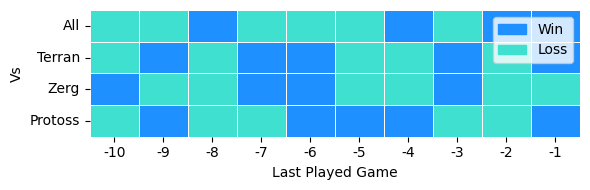
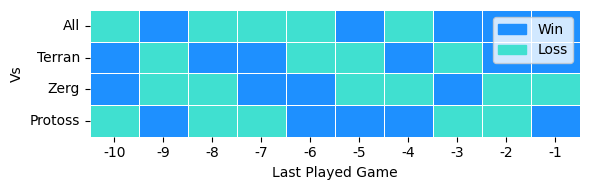
running on push

Changed region(s): [[0.4881, 0.0526, 0.9153, 0.3947], [0.1525, 0.0526, 0.4271, 0.3947]]

diff --git a/docs/index.md b/docs/index.md
@@ -6,8 +6,8 @@ layout: home
 
 |                      |   Stats |
 |:---------------------|--------:|
-| Matches Played       |     931 |
-| MMR Gained           |    8898 |
+| Matches Played       |     932 |
+| MMR Gained           |    8915 |
 | MMR lost             |    9289 |
 | Max MMR              |    4846 |
 | Min MMR              |    4477 |
@@ -36,7 +36,7 @@ layout: home
 | Race    |   Wins |   Losses |   Total |   Win Rate (%) |   MMR Gained |   MMR Lost |
 |:--------|-------:|---------:|--------:|---------------:|-------------:|-----------:|
 | Protoss |    168 |      210 |     378 |        44.4444 |         3107 |       3483 |
-| Terran  |     88 |      124 |     212 |        41.5094 |         2221 |       1646 |
+| Terran  |     89 |      124 |     213 |        41.784  |         2221 |       1646 |
 | Zerg    |    193 |      147 |     340 |        56.7647 |         3111 |       3116 |
 
 ![Games by Race](./assets/gm_hist.png)
